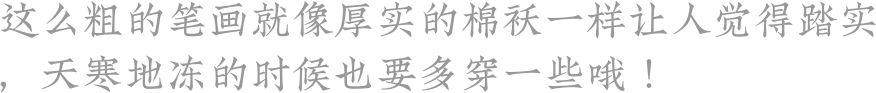
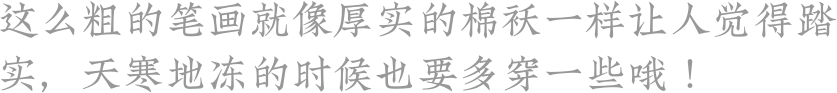
refactor: 💡 update home render

Changed region(s): [[0.0, 0.0215, 1.0, 0.4086], [0.0, 0.6022, 0.8387, 0.9892]]

diff --git a/src/data/dayInfo.ts b/src/data/dayInfo.ts
@@ -6,7 +6,7 @@ export default `
 1.1 | Scriptorama#Markdown JF | ScriptoramaMarkdownJF | 道生一。 | 第一天的字体最难选了。兜兜转转选了这么个名不见经传又说不出什么特色的字体，是因为很喜欢这种简洁中富于变化的感觉。#新的一年，万象更新。准备好了吗？ |
 1.2 | Trajan | Trajan Pro 3 | 生活就像一盒 Godiva，你永远不知道下一颗是什么味道。 | Trajan 是 Godiva Logo 所使用的字体。 |
 1.3 | Gloria Hallelujah | GloriaHallelujah.ttf | 某种程度上说，每个人都是字体的创作者，因为人的笔迹独一无二。 | 这款字体源于一个普通小学生的笔迹。 |
-1.4 | Baskerville PT | Baskerville Display PT | 一个人的命运，有时也要考虑历史的行程。| 这是一款比 Times New Roman 更古老更著名的字体。没听说过？那可能是因为它没被操作系统收入…… |
+1.4 | Baskerville PT | Baskerville Display PT | 一个人的命运，有时也要考虑历史的行程。| 这是一款比 Times New Roman 更古老更著名的字体。没听说过？那可能是因为它没被操作#系统收入…… |
 1.5 | 思源宋体 | Source Han Serif SC | 今日小寒。| 庞大的汉字数量使得制作中文字体的成本高昂，每一款免费中文字体都值得我们珍惜与感恩。 |
 1.6 | Bad Script | BadScript-Regular.ttf | 自黑有时候也是门艺术，靠「糟糕的手写体」这个名字成为热门字体也算是自黑的巅峰了吧？ |  |
 1.7 | Frontage Condenced Outline | FrontageCondensed-Outline.otf | 新的一周，色彩由你掌控。 | 如果这是本实体日历，我会在空心字内涂色，你呢？ |
@@ -22,7 +22,7 @@ export default `
 1.17 | Neue Aachen | Neue Aachen Pro | 「饿伐？要伐要帮侬叫个披萨？」 | 披萨品牌 Pa Pa Johns 使用 Aachen 作为#Logo 字体。 |
 1.18 | Utopia | Utopia Std | 人无完人。 | 不知道这款名为「乌托邦」的字体，是不是你的理想型呢？ |
 1.19 | Lobster | Lobster-Regular.ttf | 「See? He is her lobster.」| 据《老友记》中的 Phoebe 说，龙虾的配偶都是一辈子的。 |
-1.20 | Gastromond | Gastromond | 今日大寒。 | 这么粗的笔画就像厚实的棉袄一样让人觉得踏实，天寒地冻的时候也要多穿一些哦！ |
+1.20 | Gastromond | Gastromond | 今日大寒。 | 这么粗的笔画就像厚实的棉袄一样让人觉得踏#实，天寒地冻的时候也要多穿一些哦！ |
 1.21 | LTC Broadway | LTC Broadway | 「City of Stars, are you shining just for me?」 | 电影《La La Land》的标题用的就是这字体，的确很「百老汇」！ |
 1.22 | DIN 1451 Pro | DIN 1451 LT Pro | 交通领域字体设计原则：#1. 让司机一眼看清路牌，专注开车；2. 让监控快速识别并准确开罚单。 | DIN 1451字体是德国公路路牌和车牌所使用的字体。 |
 1.23 | Big Caslon | Big Caslon FB | 「I'll stick with Caslon until I die.」#——萧伯纳 | 萧伯纳是 Caslon 的忠实粉丝，他坚持用#Caslon 印刷他出版的所有作品。 |

diff --git a/src/entities/calendarCanvas.ts b/src/entities/calendarCanvas.ts
@@ -70,18 +70,18 @@ export default class CalendarCanvas {
     protected async _renderInnerPage() {
         const dateMoment = this.dateMoment;
         const padding = 20;
-        const paddingTop = 30;
+        const paddingV = 25;
         const dayOfYear = dateMoment.dayOfYear();
         const date = dateMoment.format('M.D');
 
         this.ctx.fillStyle = this._getBackground();
         this.ctx.fillRect(0, 0, this.canvas.width, this.canvas.height);
 
-        await this._renderImage(`assets/imgs/fonts/ui/dark/lunar/${dayOfYear}.png`, padding, paddingTop);
+        await this._renderImage(`assets/imgs/fonts/ui/dark/lunar/${dayOfYear}.png`, padding, paddingV);
         await this._renderImage(`assets/imgs/fonts/ui/dark/month/${dateMoment.month()}.png`, padding, 53);
         await this._renderImage(`assets/imgs/fonts/ui/dark/dayOfWeek/${dateMoment.day()}.png`, padding, 86);
-        await this._renderFont(date, padding, paddingTop);
-        await this._renderStory(date, padding);
+        await this._renderFont(date, padding, paddingV);
+        await this._renderStory(date, padding, paddingV);
     }
 
     protected async _renderFont(date: string, padding: number, paddingTop: number) {
@@ -124,19 +124,19 @@ export default class CalendarCanvas {
         await this._renderImage(`assets/imgs/fonts/fontName/dark/${date}.png`, null, nameTop, padding);
     }
 
-    protected async _renderStory(date: string, padding: number) {
+    protected async _renderStory(date: string, padding: number, paddingV: number) {
         const storyPath = `assets/imgs/fonts/story/dark/${date}.png`;
         const notePath = `assets/imgs/fonts/note/dark/${date}.png`;
         const dayInfo = getDayInfo(date);
         if (dayInfo && dayInfo.note) {
-            await this._renderImage(notePath, padding, null, null, padding);
+            await this._renderImage(notePath, padding, null, null, paddingV);
 
             const noteImg = await getImage(notePath);
-            const storyBottom = padding + noteImg.height / IMAGE_DPR + 10;
+            const storyBottom = paddingV + noteImg.height / IMAGE_DPR + 10;
             await this._renderImage(storyPath, padding, null, null, storyBottom);
         }
         else {
-            await this._renderImage(storyPath, padding, null, null, padding);
+            await this._renderImage(storyPath, padding, null, null, paddingV);
         }
     }
 

diff --git a/README.md b/README.md
@@ -21,12 +21,13 @@
 | - [ ] 批量撕日历                  | bug    | 低    |     |
 | - [ ] 摇一摇将撕下的页面摆整齐      | feat    | 低    |     |
 | - [ ] 检查版本更新                | feat    | 低    |     |
-| - [ ] 终止系统音乐播放             | bug     | 低    |    |
+| - [x] 终止系统音乐播放             | bug     | 低    |    |
 | - [x] 小米 8 全屏问题             | bug     | 低    | 安卓 |
 | - [ ] 首页 canvas 位置大小问题     | bug     | 低    | 无法复现 |
 | - [ ] 历史页面中的故事文字没有透明度 | bug     | 低    |     |
 | - [ ] Toast 在菜单打开时有干扰     | bug     | 低    | 真机上没效果    |
 | - [x] 撕日历的震动反馈             | bug     | 低    |     |
+| - [ ] 关闭撕日历的音效             | bug     | 低    |     |
 
 ## 本地调试方法
 
